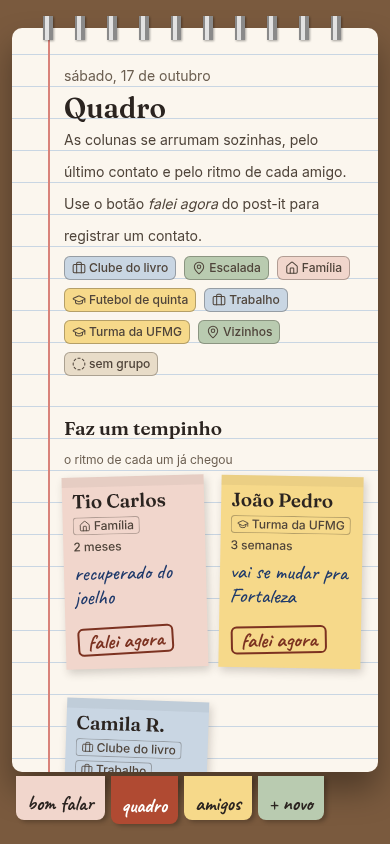
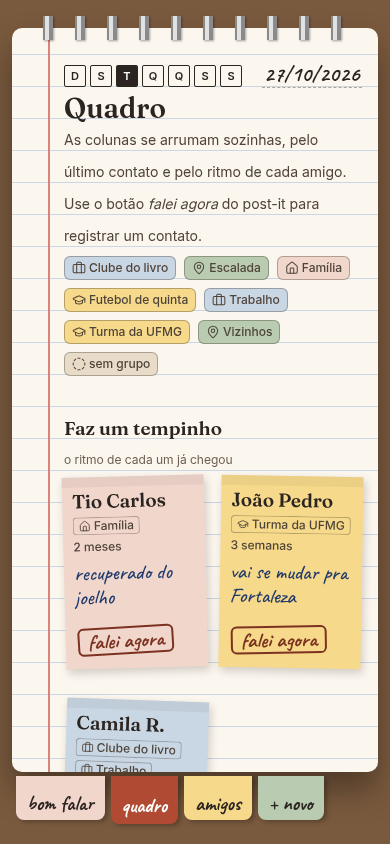
design: sync pack cabeçalho-folha (§3.12)
Syncs design files from Drive pack for CRM-21:
- spec.md (updated)
- ref-folha-data.png (new)
- direcoes/cabecalho-folha.html (new)
- direcoes/quadro.html (updated)
- direcoes/grupos-chips.html (updated)
- prints/cabecalho-folha.png (new)
- prints/desktop-quadro.png (updated)
- prints/mobile-quadro.png (updated)

Changed region(s): [[0.1538, 0.0616, 0.5538, 0.1232], [0.6769, 0.0616, 0.9231, 0.1232], [0.5846, 0.0616, 0.6154, 0.0924]]

diff --git a/design/direcoes/cabecalho-folha.html b/design/direcoes/cabecalho-folha.html
@@ -1,0 +1,75 @@
+<!doctype html>
+<html lang="pt-BR"><head>
+<meta charset="utf-8"><meta name="viewport" content="width=device-width,initial-scale=1">
+<title>Caderno de amigos — Cabeçalho de folha (3.12)</title>
+<!-- Spec 3.12. Demo de estados: cada linha destaca um dia D…S.
+     Em produção: dia + data vêm de Intl/Date em America/Sao_Paulo (cliente). Sem editar/filtrar. -->
+<link rel="preconnect" href="https://fonts.googleapis.com"><link rel="preconnect" href="https://fonts.gstatic.com" crossorigin>
+<link href="https://fonts.googleapis.com/css2?family=Fraunces:opsz,wght@9..144,600&family=Inter:wght@400;500;600;700&family=Caveat:wght@700&display=swap" rel="stylesheet">
+<style>
+:root{--linha:2rem;--pauta-offset:-0.3125rem;
+ --folha:#FBF6EE;--papel:#E8DCC8;--tinta:#2B2420;--pauta:#C9D6E3;--margem:#D9837A;--mesa:#7A5A3E;--foco:#2F6185;
+ --sombra-pagina:0 18px 32px rgba(0,0,0,.35)}
+*{box-sizing:border-box}
+body{margin:0;font-family:Inter,system-ui,sans-serif;color:var(--tinta);background:var(--mesa);padding:32px 16px 48px}
+h1{font:600 1.375rem/2rem Fraunces,Georgia,serif;margin:0 0 8px}
+.meta{font:400 14px/1.4 Inter,sans-serif;color:#4F443A;margin:0 0 24px;max-width:560px}
+.cena{max-width:720px;margin:0 auto}
+.pagina{background:var(--folha);border-radius:10px;box-shadow:var(--sombra-pagina);overflow:hidden;position:relative}
+.folha{padding:2rem 24px 3rem 56px;min-height:420px;
+ background-color:var(--folha);
+ background-image:repeating-linear-gradient(to bottom,transparent 0 calc(var(--linha) - 1px),var(--pauta) calc(var(--linha) - 1px) var(--linha));
+ background-position:0 var(--pauta-offset);line-height:var(--linha)}
+.margin-line{position:relative}
+.margin-line::after{content:"";position:absolute;top:0;bottom:0;left:36px;width:2px;background:var(--margem);pointer-events:none}
+.rotulo{font:500 12px/2rem Inter,sans-serif;color:#6B5E50;margin:0}
+.bloco{margin-bottom:var(--linha)}
+
+.cabecalho-folha{display:flex;align-items:center;justify-content:space-between;gap:12px;height:var(--linha);margin:0;pointer-events:none;user-select:none}
+.cab-dias{display:flex;align-items:center;gap:4px;list-style:none;margin:0;padding:0}
+.cab-dias li{width:22px;height:22px;box-sizing:border-box;border:1.5px solid var(--tinta);border-radius:2px;display:grid;place-items:center;font:600 11px/1 Inter,system-ui,sans-serif;color:var(--tinta);background:transparent}
+.cab-dias li[aria-current="date"],.cab-dias li.hoje{background:var(--tinta);color:#fff;border-width:2px;font-weight:700}
+.cab-data{font:700 21px/1 Caveat,cursive;color:var(--tinta);letter-spacing:.03em;border-bottom:1.5px dashed #B3A38C;padding:0 2px 2px;white-space:nowrap}
+.sr-only{position:absolute;width:1px;height:1px;padding:0;margin:-1px;overflow:hidden;clip:rect(0,0,0,0);white-space:nowrap;border:0}
+.nota{font:500 1.375rem/2rem Caveat,cursive;color:#1F3A6B;margin:0}
+.legenda{font:400 12px/1.5 Inter,sans-serif;color:#6B5E50;margin-top:24px}
+.legenda code{font-size:11px;background:#E8DCC8;padding:1px 4px;border-radius:3px}
+</style></head>
+<body>
+<div class="cena">
+ <h1>Cabeçalho de folha · 3.12</h1>
+ <p class="meta">Carimbo escolar em todas as folhas autenticadas. Tipografia: Inter nas caixas (ref impressa BR); Caveat 700 na data (carimbo do app). Destaque = caixa preenchida <code>tinta</code> + borda 2px (não só cor). Demo hardcoded; produção = <code>Intl</code>/<code>Date</code> em America/Sao_Paulo.</p>
+ <section class="pagina margin-line" aria-label="Estados do cabeçalho">
+  <div class="folha" id="folha"></div>
+ </section>
+ <p class="legenda">Ordem: D S T Q Q S S (Dom→Sáb). Sem editar, sem filtrar, sem clique. Fora da capa <code>/entrar</code>.</p>
+</div>
+<script>
+const LETRAS=['D','S','T','Q','Q','S','S'];
+const NOMES=['Domingo','Segunda','Terça','Quarta','Quinta','Sexta','Sábado'];
+const DATAS=[
+  ['2026-10-25','25/10/2026'],
+  ['2026-10-26','26/10/2026'],
+  ['2026-10-27','27/10/2026'], // terça — hoje no box
+  ['2026-10-28','28/10/2026'],
+  ['2026-10-29','29/10/2026'],
+  ['2026-10-30','30/10/2026'],
+  ['2026-10-31','31/10/2026'],
+];
+const folha=document.getElementById('folha');
+folha.innerHTML=LETRAS.map((_,i)=>{
+  const [iso,br]=DATAS[i];
+  const dias=LETRAS.map((L,j)=>{
+    const hoje=j===i;
+    return `<li${hoje?' class="hoje" aria-current="date"':''}><span aria-hidden="true">${L}</span><span class="sr-only">${NOMES[j]}${hoje?', hoje':''}</span></li>`;
+  }).join('');
+  return `<div class="bloco">
+   <p class="rotulo">${NOMES[i]} destacado</p>
+   <div class="cabecalho-folha" role="group" aria-label="Data de hoje, ${NOMES[i].toLowerCase()} ${br}">
+    <ol class="cab-dias" aria-label="Dia da semana">${dias}</ol>
+    <time class="cab-data" datetime="${iso}">${br}</time>
+   </div>
+  </div>`;
+}).join('')+`<p class="nota">A pauta continua abaixo — o cabeçalho não a substitui.</p>`;
+</script>
+</body></html>

diff --git a/design/direcoes/quadro.html b/design/direcoes/quadro.html
@@ -5,7 +5,8 @@
 <!-- Protótipo da "Visão Quadro". Direção "Caderno físico" (aprovada 16/10/2026), sem alterações.
      Simplificada em 20/10/2026: janela fixa de 7 dias em "Essa semana" e sem arrastar (a única ação é o botão "falei agora").
      Grupos N:N em 20/10/2026: cor do post-it = cor do primeiro grupo em ordem alfabética; todos os grupos como etiquetas.
-     Estados: ?estado=normal|vazio|coluna-vazia|carregando|erro|registrando -->
+     Estados: ?estado=normal|vazio|coluna-vazia|carregando|erro|registrando
+     Cabeçalho de folha (3.12, 27/10/2026): D S T Q Q S S + data carimbo; demo = terça T + 27/10/2026. -->
 <link rel="preconnect" href="https://fonts.googleapis.com"><link rel="preconnect" href="https://fonts.gstatic.com" crossorigin>
 <link href="https://fonts.googleapis.com/css2?family=Fraunces:opsz,wght@9..144,500;9..144,600&family=Inter:wght@400;500;600&family=Caveat:wght@500;700&display=swap" rel="stylesheet">
 <script src="https://cdn.tailwindcss.com"></script>
@@ -153,6 +154,15 @@ body{font-family:Inter,system-ui,sans-serif;color:var(--tinta);margin:0}
  .sheet{right:24px;top:24px;bottom:24px;width:calc(50% - 64px)}
  .veu{left:50%;border-radius:0 10px 10px 0}
 }
+
+/* ===== 3.12 Cabeçalho de folha (carimbo escolar D…S + data) =====
+   Demo: terça (T) destacada + 27/10/2026. Em produção: Intl/Date em America/Sao_Paulo. */
+.cabecalho-folha{display:flex;align-items:center;justify-content:space-between;gap:12px;height:var(--linha);margin:0 0 0;pointer-events:none;user-select:none;-webkit-user-select:none}
+.cab-dias{display:flex;align-items:center;gap:4px;list-style:none;margin:0;padding:0}
+.cab-dias li{width:22px;height:22px;box-sizing:border-box;border:1.5px solid var(--tinta);border-radius:2px;display:grid;place-items:center;font:600 11px/1 Inter,system-ui,sans-serif;color:var(--tinta);background:transparent}
+.cab-dias li[aria-current="date"],.cab-dias li.hoje{background:var(--tinta);color:#fff;border-width:2px;font-weight:700}
+.cab-data{font:700 21px/1 Caveat,cursive;color:var(--tinta);letter-spacing:.03em;border-bottom:1.5px dashed #B3A38C;padding:0 2px 2px;white-space:nowrap}
+.sr-only{position:absolute;width:1px;height:1px;padding:0;margin:-1px;overflow:hidden;clip:rect(0,0,0,0);white-space:nowrap;border:0}
 </style></head>
 <body class="mesa">
 <div class="cena">
@@ -163,7 +173,19 @@ body{font-family:Inter,system-ui,sans-serif;color:var(--tinta);margin:0}
    <div class="folha paper-lined" id="folha">
     <div class="quadro-grid" id="grid">
      <header class="cab-l">
-      <p class="text-sm text-neutro-600">sábado, 17 de outubro</p>
+      <!-- 3.12 Cabeçalho de folha — demo: terça (T) + 27/10/2026 (America/Sao_Paulo). Em produção: Intl/Date no fuso SP; sem editar/filtrar. -->
+      <div class="cabecalho-folha" role="group" aria-label="Data de hoje, terça-feira 27/10/2026">
+       <ol class="cab-dias" aria-label="Dia da semana">
+        <li><span aria-hidden="true">D</span><span class="sr-only">Domingo</span></li>
+        <li><span aria-hidden="true">S</span><span class="sr-only">Segunda</span></li>
+        <li class="hoje" aria-current="date"><span aria-hidden="true">T</span><span class="sr-only">Terça, hoje</span></li>
+        <li><span aria-hidden="true">Q</span><span class="sr-only">Quarta</span></li>
+        <li><span aria-hidden="true">Q</span><span class="sr-only">Quinta</span></li>
+        <li><span aria-hidden="true">S</span><span class="sr-only">Sexta</span></li>
+        <li><span aria-hidden="true">S</span><span class="sr-only">Sábado</span></li>
+       </ol>
+       <time class="cab-data" datetime="2026-10-27">27/10/2026</time>
+      </div>
       <h1 id="titulo-quadro" class="titulo text-2xl lg:text-3xl font-semibold">Quadro</h1>
       <p class="text-sm text-neutro-700">As colunas se arrumam sozinhas, pelo último contato e pelo ritmo de cada amigo. Use o botão <i>falei agora</i> do post-it para registrar um contato.</p>
      </header>

diff --git a/design/direcoes/grupos-chips.html b/design/direcoes/grupos-chips.html
@@ -82,6 +82,15 @@ body{font-family:Inter,system-ui,sans-serif;color:var(--tinta);margin:0}
  .abas .aba[aria-current]{width:48px;height:104px}
  .abas .so-desk{display:flex;height:56px}
 }
+
+/* ===== 3.12 Cabeçalho de folha (carimbo escolar D…S + data) =====
+   Demo: terça (T) destacada + 27/10/2026. Em produção: Intl/Date em America/Sao_Paulo. */
+.cabecalho-folha{display:flex;align-items:center;justify-content:space-between;gap:12px;height:var(--linha);margin:0 0 0;pointer-events:none;user-select:none;-webkit-user-select:none}
+.cab-dias{display:flex;align-items:center;gap:4px;list-style:none;margin:0;padding:0}
+.cab-dias li{width:22px;height:22px;box-sizing:border-box;border:1.5px solid var(--tinta);border-radius:2px;display:grid;place-items:center;font:600 11px/1 Inter,system-ui,sans-serif;color:var(--tinta);background:transparent}
+.cab-dias li[aria-current="date"],.cab-dias li.hoje{background:var(--tinta);color:#fff;border-width:2px;font-weight:700}
+.cab-data{font:700 21px/1 Caveat,cursive;color:var(--tinta);letter-spacing:.03em;border-bottom:1.5px dashed #B3A38C;padding:0 2px 2px;white-space:nowrap}
+.sr-only{position:absolute;width:1px;height:1px;padding:0;margin:-1px;overflow:hidden;clip:rect(0,0,0,0);white-space:nowrap;border:0}
 </style></head>
 <body class="mesa">
 <div class="cena">
@@ -89,6 +98,19 @@ body{font-family:Inter,system-ui,sans-serif;color:var(--tinta);margin:0}
   <div class="espiral-topo spiral-h" aria-hidden="true"></div>
   <section class="pagina margin-line">
    <div class="folha paper-lined" id="folha">
+    <!-- 3.12 Cabeçalho de folha — demo: terça (T) + 27/10/2026 (America/Sao_Paulo). Em produção: Intl/Date no fuso SP; sem editar/filtrar. -->
+    <div class="cabecalho-folha" role="group" aria-label="Data de hoje, terça-feira 27/10/2026">
+     <ol class="cab-dias" aria-label="Dia da semana">
+      <li><span aria-hidden="true">D</span><span class="sr-only">Domingo</span></li>
+      <li><span aria-hidden="true">S</span><span class="sr-only">Segunda</span></li>
+      <li class="hoje" aria-current="date"><span aria-hidden="true">T</span><span class="sr-only">Terça, hoje</span></li>
+      <li><span aria-hidden="true">Q</span><span class="sr-only">Quarta</span></li>
+      <li><span aria-hidden="true">Q</span><span class="sr-only">Quinta</span></li>
+      <li><span aria-hidden="true">S</span><span class="sr-only">Sexta</span></li>
+      <li><span aria-hidden="true">S</span><span class="sr-only">Sábado</span></li>
+     </ol>
+     <time class="cab-data" datetime="2026-10-27">27/10/2026</time>
+    </div>
     <!-- CADASTRO + BLOCO GRUPOS -->
     <div id="view-cadastro">
      <a href="#" class="inline-flex items-center gap-1 text-sm font-medium text-neutro-700"><i data-lucide="x"></i>Cancelar</a>
@@ -151,7 +173,7 @@ body{font-family:Inter,system-ui,sans-serif;color:var(--tinta);margin:0}
 </div>
 <script>
 const ICO={familia:'house',faculdade:'graduation-cap',trabalho:'briefcase',vizinhanca:'map-pin',neutro:'circle-dashed'};
-const CORES=[{id:'familia',nome:'Família'},{id:'faculdade',nome:'Faculdade'},{id:'trabalho',nome:'Trabalho'},{id:'vizinhanca',nome:'Vizinhança'},{id:'neutro',nome:'Neutro'}];
+const CORES=[{id:'familia',nome:'Pêssego'},{id:'faculdade',nome:'Amarelo'},{id:'trabalho',nome:'Azul'},{id:'vizinhanca',nome:'Verde'},{id:'neutro',nome:'Creme'}]; // label UI ≠ token (familia|faculdade|…)
 const GRUPOS=[
  {id:1,nome:'Faculdade',cor:'faculdade',total_amigos:4,ligado:true},
  {id:2,nome:'Família',cor:'familia',total_amigos:2,ligado:false},
